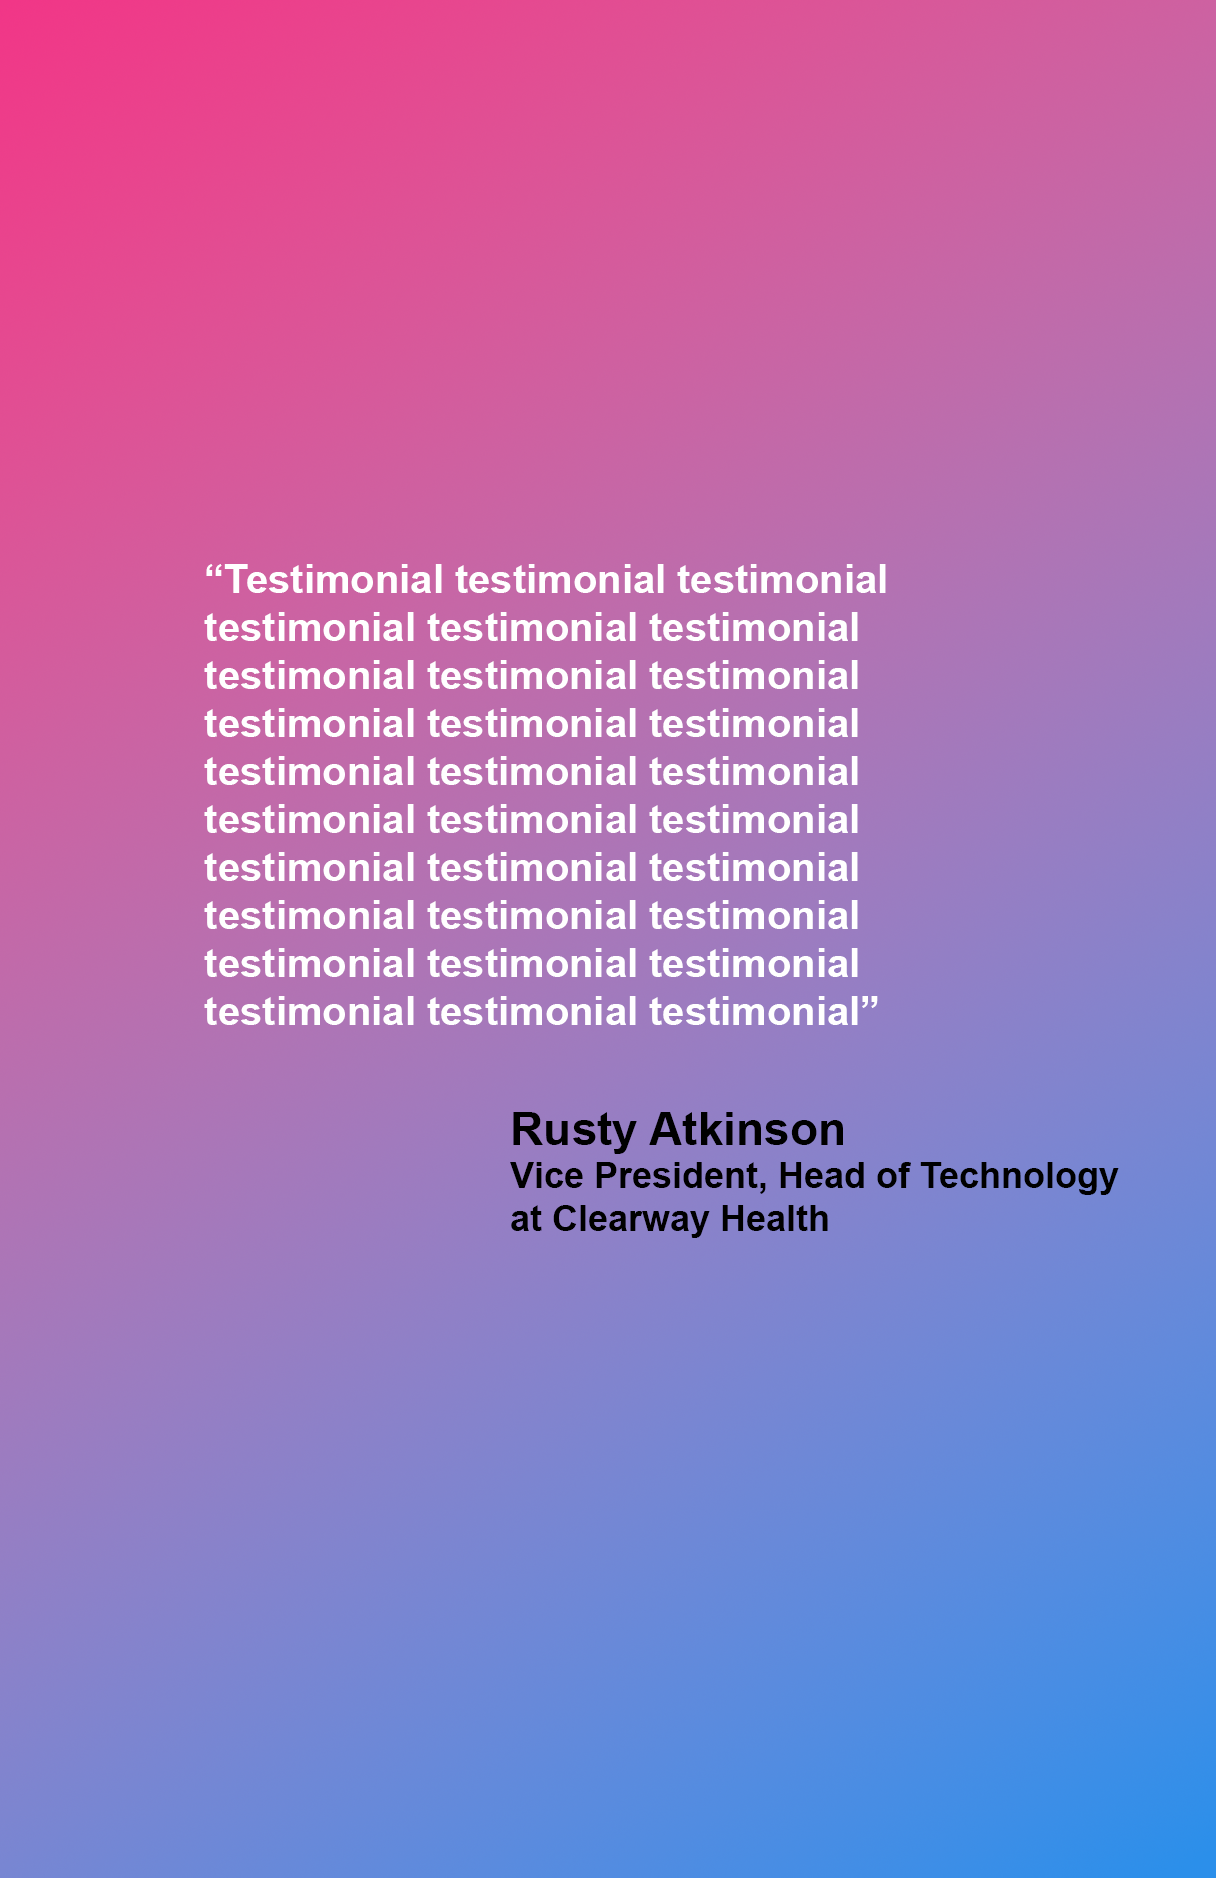
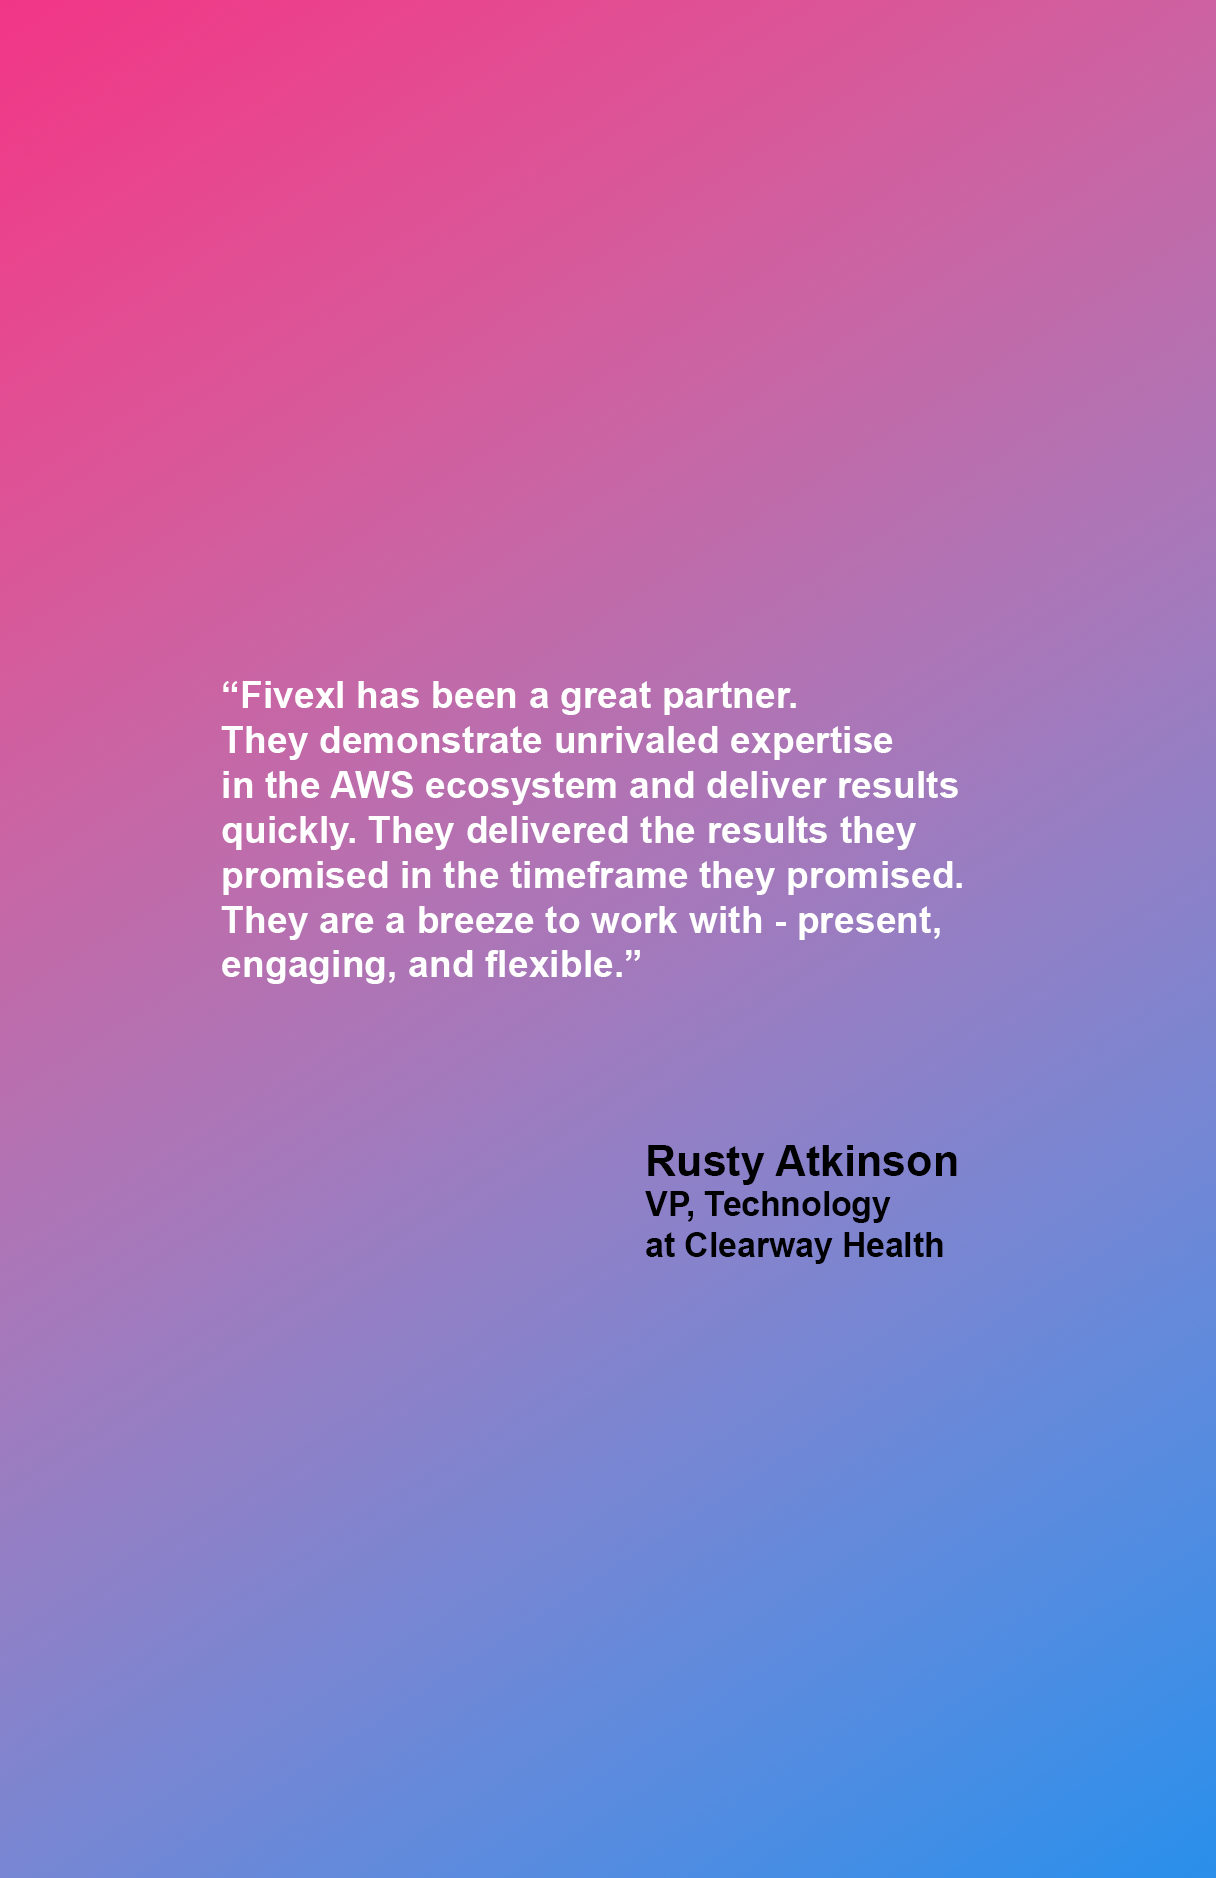
updated case study with testimonials, image

Changed region(s): [[0.1562, 0.278, 0.7812, 0.5559], [0.4062, 0.5868, 0.9375, 0.6794]]

diff --git a/content/case-studies/clearway-health-case-study/index.md b/content/case-studies/clearway-health-case-study/index.md
@@ -12,12 +12,12 @@ case_study: true
 layout: 'case_study'
 tags: ['case study', 'aws']
 testimonial: ' short testimonial testimonial testimonial'
-testimonial_author: 'Rusty Atkinson'
-testimonial_author_position: 'Vice President, Head of Technology at Clearway Health'
+testimonial_author: 'Rusty Atkinson,'
+testimonial_author_position: 'VP, Technology at Clearway Health'
 testimonial_cta_url: 'https://sales.fivexl.io/schedule-a-call'
 testimonial_author_portrait: Rusty.jpg
 testimonial_long: |
-  Testimonial testimonial testimonial testimonial testimonial testimonial testimonial testimonial testimonial testimonial testimonial testimonial testimonial testimonial testimonial testimonial testimonial testimonial testimonial testimonial testimonial testimonial testimonial testimonial testimonial testimonial testimonial testimonial testimonial testimonial testimonial testimonial testimonial testimonial testimonial testimonial
+  "Fivexl's domain expertise as Cloud Engineering Specialists has helped Clearway Health deliver on our aggressive SaaS vision with confidence that the decisions we are making today will serve us well for years to come. AWS RightStart by FivexL allowed us to get many important, foundational elements decided and solved in record time, which has allowed the Clearway Health Technology Team to spend more time and attention on specialty pharmacy-specific decisions".
 about_company:
   logo: 'Clearway.jpg'
   heading: 'About Clearway Health'
@@ -39,7 +39,8 @@ Clearway Health aimed to leverage the full power of AWS to ensure their SaaS sol
 <br/>    
 While creating the first AWS accounts and deploying the first application is relatively straightforward, scaling AWS infrastructure to handle increased traffic, adapt to rapidly evolving market changes, and meet highly complex compliance requirements in the healthcare and specialty pharmacy setting is much more challenging.<br/>  
 <br/>    
-Clearway Health understood that in order to deliver the results they promise to their clients and to transform specialty pharmacy through their SaaS solution, they needed an expertly crafted AWS environment that could seamlessly scale, adapt to their evolving needs, meet compliance requirements and provide robust security for their data from day zero. They turned to FivexL, known for helping their clients build infrastructure on AWS.
+"We understood that in order to deliver the results we promise to our clients and to transform specialty pharmacy through our SaaS solution, we needed an expertly crafted AWS environment. It had to seamlessly scale, adapt to our evolving needs, meet compliance requirements, and provide robust security for our data from day zero", said Rusty Atkinson, VP, Technology at Clearway Health.
+Recognizing this need, they turned to FivexL, known for helping their clients build infrastructure on AWS.
 
 
 

diff --git a/content/case-studies/kosli-case-study/index.md b/content/case-studies/kosli-case-study/index.md
@@ -17,7 +17,7 @@ testimonial_author_position: 'CEO at Kosli'
 testimonial_cta_url: 'https://sales.fivexl.io/schedule-a-call'
 testimonial_author_portrait: MikeL.png
 testimonial_long: |
-  FivexL's communication is excellent, consistently sharing new ideas with us. We trust the team to implement solutions safely and without any issues, we've never experienced downtime with our infrastructure. FivexL has been a reliable partner throughout this entire period.
+  "FivexL's communication is excellent, consistently sharing new ideas with us. We trust the team to implement solutions safely and without any issues, we've never experienced downtime with our infrastructure. FivexL has been a reliable partner throughout this entire period."
 about_company:
   logo: 'kosli_logo.png'
   heading: 'About Kosli'
